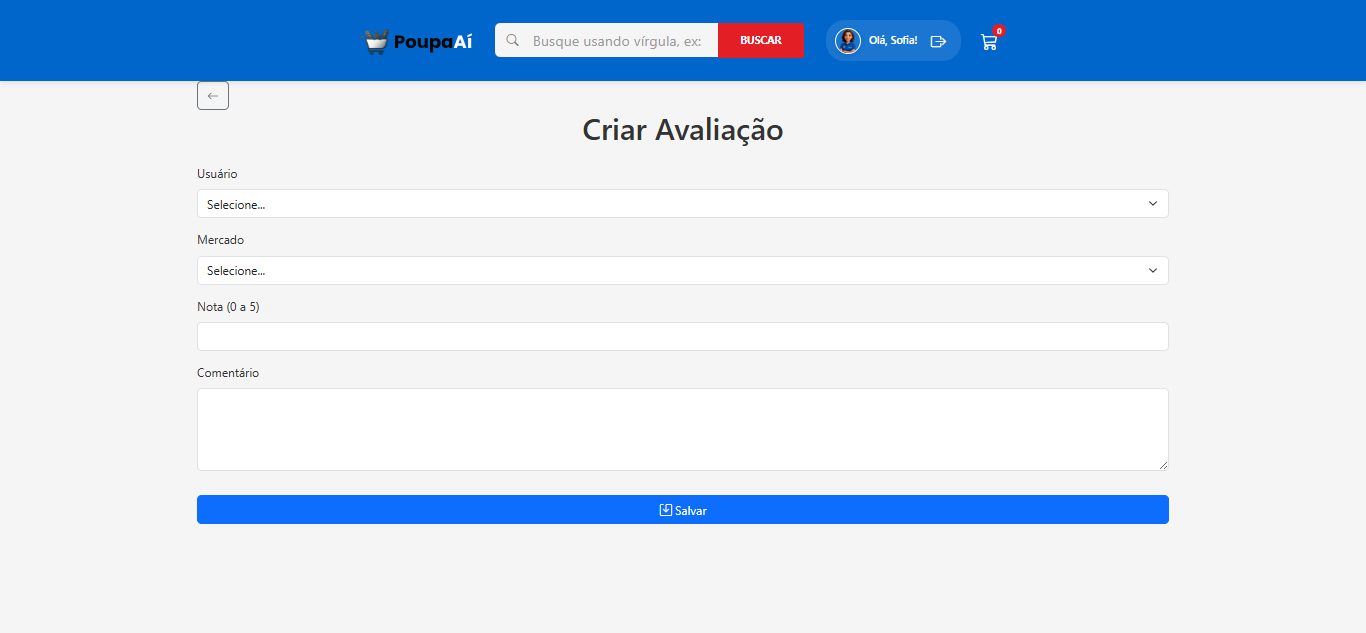
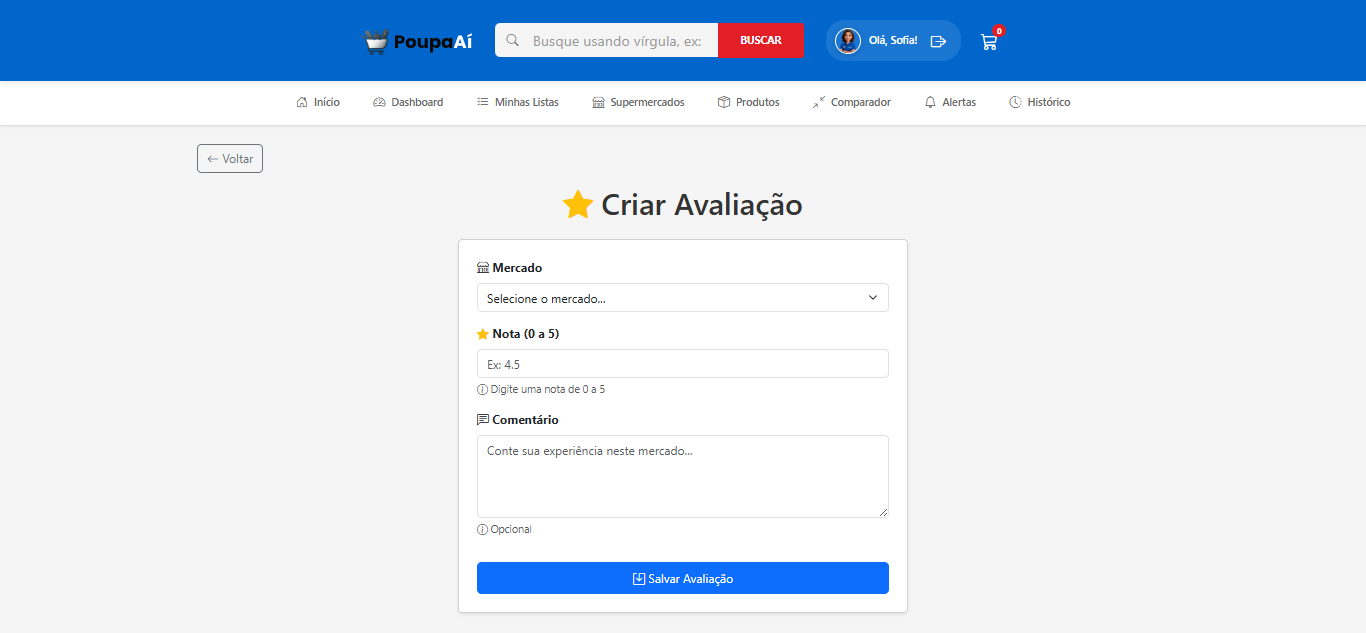
Alterações na Solução em docs README.md

diff --git a/docs/README.md b/docs/README.md
@@ -306,7 +306,7 @@ Esta seção apresenta todos os detalhes da solução criada no projeto.
 
 ## Funcionalidades
 
-Esta seção apresenta as funcionalidades da solução.Info
+Esta seção apresenta as funcionalidades da solução
 
 ##### Funcionalidade 1 - Cadastro de usuário e login
 
@@ -349,9 +349,55 @@ Usuário
     }
 ```
 
-##### Funcionalidade 2 - Visualizar, ver detalhes, avaliar e ver mercados no mapa
+##### Funcionalidade 2 - Tela inicial para ter acesso a promoções e carrinho de compras
 
-Permite o usuário veja os mercados disponíveis, veja seus detalhes, avalie e veja o mercado no mapa
+Permite que o usuário veja os produtos que estão disponíveis e se desejar, adicionar esses produtos em seu carrinho de compras, onde pode visualizar produto, preço e supermecado do produto adicionado, editar a quantidade e a forma de pagamento, e registrar sua compra.
+
+- **Instruções de acesso:**
+  - Na tela inicial, role para baixo para ver os produtos em destaque
+  - Se desejar, adicione algum deles ao carrinho
+  - Ainda na tela inicial, clique na imagem do carrinho, no canto superior direito
+  - No carrinho, clique em "+" se desejar aumentar a quantidade do produto
+  - Clique em "-" se desejar diminuir a quantidade do produto
+  - Ou clique na imagem da lixeira se desejar excluir o produto do carrinho
+  - No canto direito, também se é possível alterar a forma de pagamento, selecionando as opções disponíveis
+- **Tela da funcionalidade**:
+
+![Tela inicial para ver o carrinho com item](images/tela-inicial-carrinho.png)
+
+![Tela do carrinho com produto](images/carrinho-produto.png)
+
+- **Estrutura de dados:**
+
+Produtos
+
+```json
+    {
+      "id": 1,
+      "nome": "Arroz Branco",
+      "marca": "Camil",
+      "categoria": "Alimentos",
+      "unidade_medida": "kg",
+      "tamanho_embalagem": "1",
+      "descricao": "Arroz branco tipo 1, grãos selecionados",
+      "imagem_url": "/codigo/public/assets/img/arroz_branco_camil_1kg.jpg",
+      "criadoEm": "2024-01-01T10:00:00",
+      "atualizadoEm": "2025-01-28T10:00:00",
+      "ocorrencias": [
+        {
+          "mercadoId": 1,
+          "preco": 7.2,
+          "precoAnterior": 7.9,
+          "estoque": "Em estoque",
+          "ultimaAtualizacao": "2025-01-28T10:00:00"
+        }
+      ]
+    }
+```
+
+##### Funcionalidade 3 - Visualizar, ver detalhes, avaliar e ver mercados no mapa
+
+Permite que o usuário veja os mercados disponíveis, veja seus detalhes, avalie e veja o mercado no mapa
 
 - **Instruções de acesso:**
   - Na barra de navegação, vá em "Supermercados"
@@ -366,6 +412,8 @@ Permite o usuário veja os mercados disponíveis, veja seus detalhes, avalie e v
 ![Tela detalhes do supermercado](images/detalhes-mercado.png)
 
 ![Tela de avaliação do supermercado](images/avaliacao-mercado.png)
+
+![Tela com minhas avaliações](images/minhas-avaliacoes.png)
 
 ![Tela de mapa  do supermercado](images/mapa-mercado.png)
 
@@ -417,17 +465,67 @@ Mercados
       "dataAtualizacao": "2025-01-28T10:30:00"
     }
 ```
+Acessibilidade
 
-##### Funcionalidade 3 - Visualizar, ver detalhes, cadastrar e excluir produtos
+```json
+    {
+      "id": 1,
+      "tipo": "Rampa de acesso"
+    },
+    {
+      "id": 2,
+      "tipo": "Elevador"
+    },
+    {
+      "id": 3,
+      "tipo": "Vagas preferenciais"
+    },
+    {
+      "id": 4,
+      "tipo": "Piso tátil"
+    },
+    {
+      "id": 5,
+      "tipo": "Sinalização em Braille"
+    },
+    {
+      "id": 6,
+      "tipo": "Atendimento em Libras"
+    },
+    {
+      "id": 7,
+      "tipo": "Caixa preferencial"
+    }
+```
+Avaliações
 
-Permite Que o usuário veja o produto e seus detalhes. Ao administrador, permite cadastrar e excluir produtos
+```json
+    {
+      "id": 1,
+      "usuarioId": 1,
+      "mercadoId": 1,
+      "nota": 5,
+      "comentario": "Excelente supermercado! Preços justos e boa variedade.",
+      "data": "2025-11-20T16:00:00"
+    }
+```
+
+##### Funcionalidade 4 - Buscar, filtrar, visualizar, ver detalhes, cadastrar e excluir produtos
+
+Permite Que o usuário busque, filtre, veja o produto e seus detalhes. Ao administrador, permite cadastrar e excluir produtos
 
 - **Instruções de acesso:**
   - Na barra de navegação, vá em "Produtos"
+  - Se desejar, na barra de pesquisa busque por um produto específico
+  - Também é possível ir em "Por Categoria" para filtragem
   - No produto desejado, clique em detalhes
   - Se o administrador desejar cadastrar um novo produto, clique em "Cadastrar Produto"
   - Em produtos, se o administrador desejar excluir um produto, clique em "excluir"
 - **Tela da funcionalidade**:
+
+![Tela buscar produtos](images/buscar-produtos.png)
+
+![Tela filtrar produtos](images/filtrar-produtos.png)
 
 ![Tela produtos](images/produtos.png)
 
@@ -463,7 +561,24 @@ Produtos
     }
 ```
 
-##### Funcionalidade 4 - Visualizar, criar, editar e excluir listas de compras
+Categorias
+
+```json
+    {
+      "id": 1,
+      "nome": "Alimentos",
+      "icone": "bi-basket",
+      "descricao": "Produtos alimentícios em geral"
+    },
+    {
+      "id": 2,
+      "nome": "Limpeza",
+      "icone": "bi-droplet",
+      "descricao": "Produtos de limpeza e higiene do lar"
+    }
+```
+
+##### Funcionalidade 5 - Visualizar, criar, editar e excluir listas de compras
 
 Permite Que o usuário veja, crie, edite e exclua suas listas de compras
 
@@ -516,9 +631,135 @@ Listas
     }
 ```
 
-##### Funcionalidade 5 - Visualizar, e excluir hisórico de compras
+##### Funcionalidade 6 - Comparador de preços
 
-Permite Que o usuário veja seu histórico de compras e exclua alguma compra do histórico
+Permite que o usuário compare preços tanto de produtos específicos quanto preços de listas
+
+- **Instruções de acesso:**
+  - Na barra de navegação, vá em "Comparador"
+  - Em "Buscar Produto", digite o nome do produto que se deseja visualizar e comparar preços
+  - Se desejar comparar listas, clique em "Comparar lista", digite o nome da lista
+- **Tela da funcionalidade**:
+
+![Tela comparar produto](images/comparar-produto.png)
+![Tela comparar produto](images/comparar-lista.png)
+
+- **Estrutura de dados:**
+
+Produtos
+
+```json
+    {
+      "id": 1,
+      "nome": "Arroz Branco",
+      "marca": "Camil",
+      "categoria": "Alimentos",
+      "unidade_medida": "kg",
+      "tamanho_embalagem": "1",
+      "descricao": "Arroz branco tipo 1, grãos selecionados",
+      "imagem_url": "/codigo/public/assets/img/arroz_branco_camil_1kg.jpg",
+      "criadoEm": "2024-01-01T10:00:00",
+      "atualizadoEm": "2025-01-28T10:00:00",
+      "ocorrencias": [
+        {
+          "mercadoId": 1,
+          "preco": 7.2,
+          "precoAnterior": 7.9,
+          "estoque": "Em estoque",
+          "ultimaAtualizacao": "2025-01-28T10:00:00"
+        }
+      ]
+    }
+```
+
+Listas
+
+```json
+    {
+      "id": 1,
+      "usuarioId": 1,
+      "nome": "Lista Mensal - Janeiro",
+      "dataCriacao": "2025-01-15T10:00:00",
+      "dataAtualizacao": "2025-01-28T14:30:00",
+      "status": "ativa",
+      "valor": 150.5,
+      "produtos": [
+        {
+          "produtoId": 1,
+          "quantidade": 5,
+          "valorUnitario": 7.2,
+          "mercadoId": 1
+        },
+        {
+          "produtoId": 3,
+          "quantidade": 3,
+          "valorUnitario": 9.1,
+          "mercadoId": 1
+        },
+        {
+          "produtoId": 7,
+          "quantidade": 10,
+          "valorUnitario": 4.5,
+          "mercadoId": 1
+        }
+      ]
+    }
+```
+
+##### Funcionalidade 7 - Alertas
+
+Permite que o usuário receba/veja alertas de preço abaixando, e crie novos alertas de produtos que desejar
+
+- **Instruções de acesso:**
+  - Na barra de navegação, vá em "Alertas"
+  - Agora se é possível ver os alertas já criados (ativos e lidos)
+  - Se desejar alterar algum alerta, clique em "Gerenciar Alertas"
+  - Também, se desejar, é possível criar um novo alerta, clicando em "Novo Alerta"
+
+- **Tela da funcionalidade**:
+
+![Tela com alertas ativos](images/alerta-preco-ativos.png)
+![Tela com alertas lidos](images/alerta-preco-lidos.png)
+![Tela de gerenciamento de alertas](images/gerenciar-alertas.png)
+![Tela de criação de alerta](images/criar-alerta.png)
+
+- **Estrutura de dados:**
+
+AlertasConfig
+
+```json
+    {
+      "id": 1,
+      "usuarioId": 1,
+      "produtoId": 1,
+      "mercadoId": null,
+      "tipo": "abaixo",
+      "valorAlerta": 6,
+      "ativo": true,
+      "dataCriacao": "2025-11-15T10:00:00"
+    }
+```
+
+Alertas
+
+```json
+    {
+      "id": 1,
+      "usuarioId": 1,
+      "produtoId": 1,
+      "mercadoId": 3,
+      "tipo": "abaixo",
+      "valorAlerta": 6,
+      "precoAnterior": 8.2,
+      "precoNovo": 6.5,
+      "dataNotificacao": "2025-12-08T08:15:00",
+      "lido": false
+    }
+```
+
+##### Funcionalidade 8 - Visualizar, e excluir hisórico de compras
+
+Permite que o usuário veja seu histórico de compras e exclua alguma compra do histórico
 
 - **Instruções de acesso:**
   - Na barra de navegação, vá em "Histórico"
